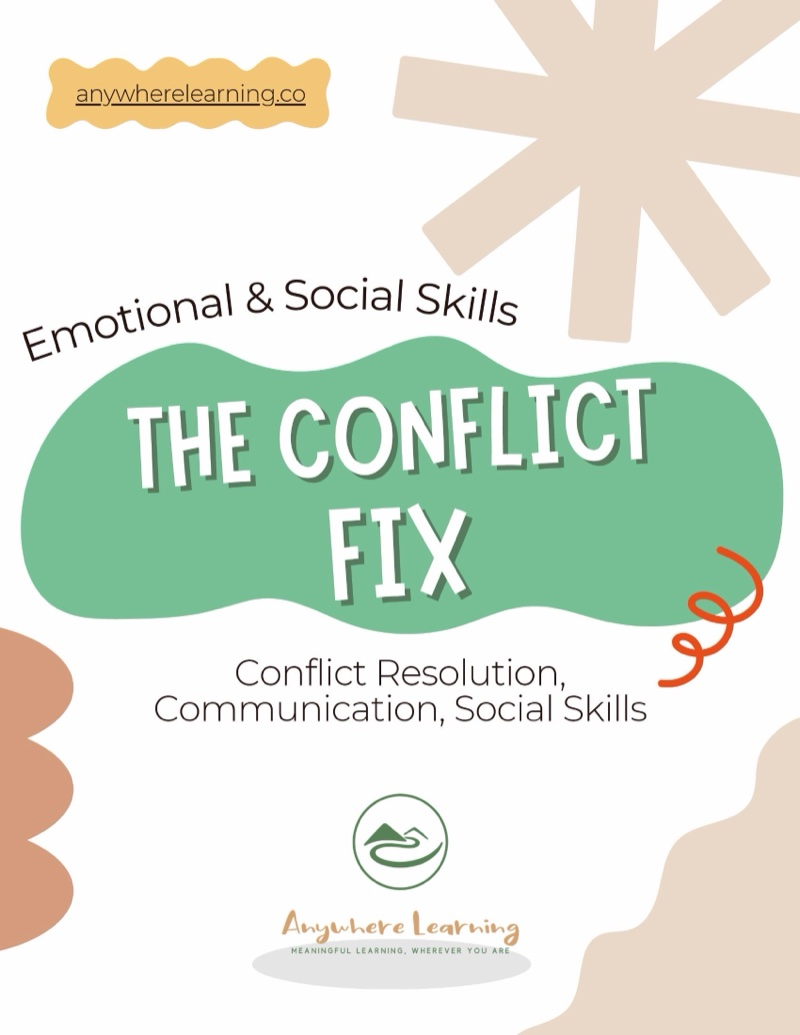
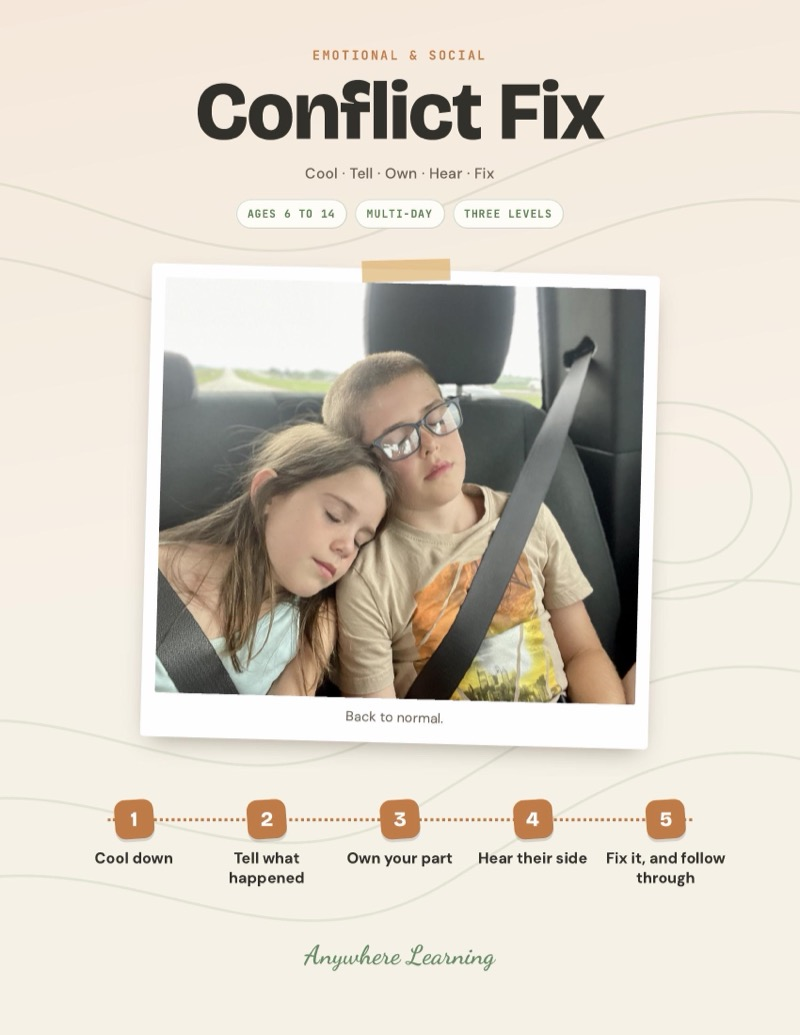
Conflict Fix: redesigned guide absorbing Repair Conversation, dishes fight story, car photo, multi-day; retire Repair Conversation with redirect

diff --git a/scripts/seed.ts b/scripts/seed.ts
@@ -141,10 +141,10 @@ async function seed() {
     { name: 'The Disappointment Lab', slug: 'disappointment-lab', description: 'Sit through a small planned letdown, name the feeling, and track how long it takes to bounce back.', shortDescription: 'Build resilience by tracking recovery time.', priceCents: 599, compareAtPriceCents: null, stripePriceId: 'price_1TdZpgAkIBECpwGmdBefEIXn', blobUrl: 'https://xkj3tzlgu6ylgllk.public.blob.vercel-storage.com/Emotional%20%26%20Social%20Skills%20-%20The%20Disappointment%20Lab.pdf', imageUrl: '/products/disappointment-lab.jpg', category: 'emotional-social-skills', isBundle: false, bundleProductIds: null, activityCount: null, ageRange: 'Ages 6–14', sortOrder: 223, active: false },
     { name: 'Comeback Journal', slug: 'comeback-journal', description: 'Your kid learns what to do after a letdown, like a lost game or a plan that fell through. They let it land, separate the facts from the story in their head, focus on their own game, set a personal goal for next time and keep a journal that shows how far they have come back.', shortDescription: 'Resilience activity for kids ages 6-14: bounce back from a letdown with facts, a focus on their own game and a personal goal for next time.', priceCents: 599, compareAtPriceCents: null, stripePriceId: 'price_1TdZphAkIBECpwGmkbMH03LR', blobUrl: 'https://xkj3tzlgu6ylgllk.public.blob.vercel-storage.com/Emotional%20%26%20Social%20Skills%20-%20The%20Comeback%20Journal.pdf', imageUrl: '/products/comeback-journal.jpg', category: 'emotional-social-skills', isBundle: false, bundleProductIds: null, activityCount: null, ageRange: 'Ages 6–14', sortOrder: 224, active: true },
     { name: 'Hard Thing Challenge', slug: 'hard-thing-challenge', description: 'Your kid picks one hard thing they cannot do yet and works at it for a whole stretch, like a month or a summer. They set a finish line and checkpoints, practise in small pieces, get through the messy middle where most people quit, and learn the difference between skipping one part and quitting the goal.', shortDescription: 'Perseverance activity for kids ages 6-14: pick one hard thing, set a finish line, get through the messy middle and finish what they started.', priceCents: 599, compareAtPriceCents: null, stripePriceId: 'price_1TdZphAkIBECpwGmehQbYZr2', blobUrl: 'https://xkj3tzlgu6ylgllk.public.blob.vercel-storage.com/Emotional%20%26%20Social%20Skills%20-%20The%20Hard%20Thing%20Challenge.pdf', imageUrl: '/products/hard-thing-challenge.jpg', category: 'emotional-social-skills', isBundle: false, bundleProductIds: null, activityCount: null, ageRange: 'Ages 6–14', sortOrder: 225, active: true },
-    { name: 'The Repair Conversation', slug: 'repair-conversation', description: 'Practise what to do after hurting someone: own it, skip excuses, ask what would help, follow through.', shortDescription: 'Own a mistake and repair the relationship.', priceCents: 599, compareAtPriceCents: null, stripePriceId: 'price_1TdZpiAkIBECpwGmg1Xu67b3', blobUrl: 'https://xkj3tzlgu6ylgllk.public.blob.vercel-storage.com/Emotional%20%26%20Social%20Skills%20-%20The%20Repair%20Conversation.pdf', imageUrl: '/products/repair-conversation.jpg', category: 'emotional-social-skills', isBundle: false, bundleProductIds: null, activityCount: null, ageRange: 'Ages 6–14', sortOrder: 226, active: true },
+    { name: 'The Repair Conversation', slug: 'repair-conversation', description: 'Practise what to do after hurting someone: own it, skip excuses, ask what would help, follow through.', shortDescription: 'Own a mistake and repair the relationship.', priceCents: 599, compareAtPriceCents: null, stripePriceId: 'price_1TdZpiAkIBECpwGmg1Xu67b3', blobUrl: 'https://xkj3tzlgu6ylgllk.public.blob.vercel-storage.com/Emotional%20%26%20Social%20Skills%20-%20The%20Repair%20Conversation.pdf', imageUrl: '/products/repair-conversation.jpg', category: 'emotional-social-skills', isBundle: false, bundleProductIds: null, activityCount: null, ageRange: 'Ages 6–14', sortOrder: 226, active: false },
     { name: 'The Kindness Missions', slug: 'kindness-missions', description: 'Build and work through a deck of real-world kindness challenges that take effort and noticing.', shortDescription: 'A deck of real-world kindness missions.', priceCents: 599, compareAtPriceCents: null, stripePriceId: 'price_1TdZpiAkIBECpwGmna3K79c3', blobUrl: 'https://xkj3tzlgu6ylgllk.public.blob.vercel-storage.com/Emotional%20%26%20Social%20Skills%20-%20The%20Kindness%20Missions.pdf', imageUrl: '/products/kindness-missions.jpg', category: 'emotional-social-skills', isBundle: false, bundleProductIds: null, activityCount: null, ageRange: 'Ages 6–14', sortOrder: 227, active: true },
     { name: 'Reading the Room', slug: 'reading-the-room', description: 'Practise noticing what others feel before words. Scan a room, read body language, infer the backstory.', shortDescription: 'Read body language and scan a room.', priceCents: 599, compareAtPriceCents: null, stripePriceId: 'price_1TdZpjAkIBECpwGmj3tD6ezs', blobUrl: 'https://xkj3tzlgu6ylgllk.public.blob.vercel-storage.com/Emotional%20%26%20Social%20Skills%20-%20Reading%20the%20Room.pdf', imageUrl: '/products/reading-the-room.jpg', category: 'emotional-social-skills', isBundle: false, bundleProductIds: null, activityCount: null, ageRange: 'Ages 9–14', sortOrder: 228, active: true },
-    { name: 'The Conflict Fix', slug: 'conflict-fix', description: 'A real script for fights with siblings or friends: cool down, say it without attacking, hear the other side, find the fix.', shortDescription: 'A real script for conflict resolution.', priceCents: 599, compareAtPriceCents: null, stripePriceId: 'price_1TdZpjAkIBECpwGmhgx7Rtab', blobUrl: 'https://xkj3tzlgu6ylgllk.public.blob.vercel-storage.com/Emotional%20%26%20Social%20Skills%20-%20The%20Conflict%20Fix.pdf', imageUrl: '/products/conflict-fix.jpg', category: 'emotional-social-skills', isBundle: false, bundleProductIds: null, activityCount: null, ageRange: 'Ages 6–14', sortOrder: 229, active: true },
+    { name: 'Conflict Fix', slug: 'conflict-fix', description: 'Your kids learn to fix a fight, not just end it. They cool down first, tell what happened without blame, own their own part, hear the other side and agree on a fix, so the same argument about whose turn it is does not come back tomorrow.', shortDescription: 'Conflict resolution for kids ages 6-14: cool down, tell it, own your part, hear their side and agree on a fix that stops the next fight.', priceCents: 599, compareAtPriceCents: null, stripePriceId: 'price_1TdZpjAkIBECpwGmhgx7Rtab', blobUrl: 'https://xkj3tzlgu6ylgllk.public.blob.vercel-storage.com/Emotional%20%26%20Social%20Skills%20-%20The%20Conflict%20Fix.pdf', imageUrl: '/products/conflict-fix.jpg', category: 'emotional-social-skills', isBundle: false, bundleProductIds: null, activityCount: null, ageRange: 'Ages 6–14', sortOrder: 229, active: true },
     { name: 'The Solo Mission', slug: 'solo-mission', description: 'Take on age-right do-it-without-me challenges: order at a counter, call a place, run an errand.', shortDescription: 'Solo missions in the real world.', priceCents: 599, compareAtPriceCents: null, stripePriceId: 'price_1TdZpkAkIBECpwGmxbgBC5hB', blobUrl: 'https://xkj3tzlgu6ylgllk.public.blob.vercel-storage.com/Emotional%20%26%20Social%20Skills%20-%20The%20Solo%20Mission.pdf', imageUrl: '/products/solo-mission.jpg', category: 'emotional-social-skills', isBundle: false, bundleProductIds: null, activityCount: null, ageRange: 'Ages 6–14', sortOrder: 230, active: true },
     { name: 'Worry Sorter', slug: 'worry-sorter', description: 'Your kid learns that most worries are two things stuck together: a part they cannot change and a part they can. They get their worries out, pin down the real one, sort theirs from the rest, plan their part, then check back afterwards to see what really happened.', shortDescription: 'Worry activity for kids ages 6-14: pin down the real worry, sort what they can change from what they cannot, plan their part and let the rest go.', priceCents: 599, compareAtPriceCents: null, stripePriceId: 'price_1TdZpkAkIBECpwGmGO1cFkPF', blobUrl: 'https://xkj3tzlgu6ylgllk.public.blob.vercel-storage.com/Emotional%20%26%20Social%20Skills%20-%20The%20Worry%20Sorter.pdf', imageUrl: '/products/worry-sorter.jpg', category: 'emotional-social-skills', isBundle: false, bundleProductIds: null, activityCount: null, ageRange: 'Ages 6–14', sortOrder: 231, active: true },
 

diff --git a/lib/product-descriptions.ts b/lib/product-descriptions.ts
@@ -2746,22 +2746,24 @@ export const productDescriptions: Record<string, ProductDescription> = {
   },
   'conflict-fix': {
     opening:
-      'Your child learns a real script for working through a fight with a sibling or friend: cool down, say it without attacking, hear the other side, find the fix. They run it on a real recent conflict and watch what shifts. Not a worksheet about feelings.',
+      'Your kids learn to fix a fight, not just end it. They cool down first, tell what happened without blame, own their own part, hear the other side and agree on a fix, so the same argument about whose turn it is does not come back tomorrow.',
     whatsIncluded: [
-      '4-step conflict script (cool down, speak, hear, fix)',
-      'Cool-down tools that actually work in the moment',
-      'Say-it-without-attacking sentence frames',
-      'Real recent conflict practice run',
-      'Version 2 revision after using it for real',
+      'Five steps, from cooling down to a fix you check a few days later',
+      'Cool down, Tell it, Own it and Hear it cards',
+      'A worked example: a sibling fight over whose turn it is for the dishes',
+      'Our fix page, for the repair and the plan for next time',
+      'Three levels per step, from ages 6 to 14',
     ],
-    skillTags: ['Conflict Resolution', 'Communication', 'Social Skills'],
+    skillTags: ['Conflict Resolution', 'Communication', 'Accountability', 'Active Listening', 'Problem-Solving'],
     insideTheLearning: {
       lead:
-        'Your child learns to repair a real conflict rather than wait it out. Step one is noticing they are too hot to talk yet. Then saying what they need without attacking, and hearing the other side without spending the whole time loading a comeback.',
+        'Space and a hug can end a fight, but the same fight often comes back the next day. Your kids learn to cool down first, own their own part without a but, repeat the other side until it is right, and agree on a fix for the real problem, like whose turn it is.',
       skills: [
-        { skill: 'Conflict Resolution', where: 'Cooling down first, then working the disagreement through to an actual fix' },
-        { skill: 'Communication', where: 'Saying what they feel and need without turning it into an attack' },
-        { skill: 'Social Skills', where: 'Listening to the other side properly instead of preparing their rebuttal' },
+        { skill: 'Conflict Resolution', where: 'Working through a real fight in five steps, from cool-down to fix' },
+        { skill: 'Communication', where: 'Telling what happened with facts, a feeling and what they wanted' },
+        { skill: 'Accountability', where: 'Naming their own part and saying sorry for it, with no but' },
+        { skill: 'Active Listening', where: 'Repeating the other side until they hear yes, that is it' },
+        { skill: 'Problem-Solving', where: 'Agreeing on a fix and checking it a few days later' },
       ],
     },
     format: 'Project Guide',

diff --git a/lib/fallback-products.ts b/lib/fallback-products.ts
@@ -2419,7 +2419,7 @@ export const fallbackProducts: FallbackProduct[] = [
     activityCount: null,
     ageRange: "Ages 6–14",
     sortOrder: 226,
-    active: true,
+    active: false,
     createdAt: new Date("2026-05-29"),
   },
   {
@@ -2470,18 +2470,18 @@ export const fallbackProducts: FallbackProduct[] = [
   },
   {
     id: "fb-conflict-fix",
-    name: "The Conflict Fix",
+    name: "Conflict Fix",
     slug: "conflict-fix",
     description:
-      "Your child learns a real script for working through a fight with a sibling or friend: cool down, say it without attacking, hear the other side, find the fix. They run it on a real recent conflict and watch what shifts. Not a worksheet about feelings.",
+      "Your kids learn to fix a fight, not just end it. They cool down first, tell what happened without blame, own their own part, hear the other side and agree on a fix, so the same argument about whose turn it is does not come back tomorrow.",
     shortDescription:
-      "Conflict resolution for kids ages 6-14: a real script for fights with siblings and friends. Cool down, speak it, fix it.",
+      "Conflict resolution for kids ages 6-14: cool down, tell it, own your part, hear their side and agree on a fix that stops the next fight.",
     priceCents: 599,
     compareAtPriceCents: null,
     stripePriceId: "price_1TdZpjAkIBECpwGmhgx7Rtab",
     blobUrl: "https://xkj3tzlgu6ylgllk.public.blob.vercel-storage.com/Emotional%20%26%20Social%20Skills%20-%20The%20Conflict%20Fix.pdf",
-    imageUrl: "/products/conflict-fix.jpg?v=2",
-    previewFile: "Preview Emotional & Social Skills - The Conflict Fix.pdf",
+    imageUrl: "/products/conflict-fix.jpg?v=3",
+    previewFile: "Preview Emotional & Social Skills - The Conflict Fix v3.pdf",
     category: "emotional-social-skills",
     isBundle: false,
     bundleProductIds: null,

diff --git a/lib/activity-blob-urls.ts b/lib/activity-blob-urls.ts
@@ -31,7 +31,7 @@ export const ACTIVITY_BLOB_URLS: Record<string, string> = {
   "community-service-business": "https://xkj3tzlgu6ylgllk.public.blob.vercel-storage.com/Entrepreneurship%20-%20Community%20Service%20Business%20v2.pdf",
   "community-tour-guide": "https://xkj3tzlgu6ylgllk.public.blob.vercel-storage.com/Communication%20%26%20Writing%20-%20Community%20Tour%20Guide%20v9.pdf",
   "complaint-to-product": "https://xkj3tzlgu6ylgllk.public.blob.vercel-storage.com/Entrepreneurship%20-%20Complaint%20to%20Product%20v7.pdf",
-  "conflict-fix": "https://xkj3tzlgu6ylgllk.public.blob.vercel-storage.com/Emotional%20%26%20Social%20Skills%20-%20The%20Conflict%20Fix%20v2.pdf",
+  "conflict-fix": "https://xkj3tzlgu6ylgllk.public.blob.vercel-storage.com/Emotional%20%26%20Social%20Skills%20-%20The%20Conflict%20Fix%20v3.pdf",
   "create-with-ai": "https://xkj3tzlgu6ylgllk.public.blob.vercel-storage.com/AI%20%26%20Digital%20Literacy%20-%20CREATE%20WITH%20AI%2C%20ETHICALLY%20v2.pdf",
   "creature-habitat": "https://xkj3tzlgu6ylgllk.public.blob.vercel-storage.com/Creativity%20%26%20Maker%20Create%20a%20Creature%20and%20Build%20Its%20Habitat%20v6.pdf",
   "cultural-celebration-journal": "https://xkj3tzlgu6ylgllk.public.blob.vercel-storage.com/Worldschooling%20-%20Cultural%20Celebration%20Journal%20v4.pdf",

diff --git a/scripts/create-stripe-products.ts b/scripts/create-stripe-products.ts
@@ -126,7 +126,7 @@ const catalog = [
   { slug: 'repair-conversation', name: 'The Repair Conversation', priceCents: 599, description: 'Own a mistake, skip excuses, ask what would help, follow through.' },
   { slug: 'kindness-missions', name: 'The Kindness Missions', priceCents: 599, description: 'A deck of real-world kindness challenges that take effort and noticing.' },
   { slug: 'reading-the-room', name: 'Reading the Room', priceCents: 599, description: 'Scan a room, read body language, infer the backstory.' },
-  { slug: 'conflict-fix', name: 'The Conflict Fix', priceCents: 599, description: 'A real script for working through fights with siblings or friends.' },
+  { slug: 'conflict-fix', name: 'Conflict Fix', priceCents: 599, description: 'Conflict resolution for kids ages 6-14: cool down, tell it, own your part, hear their side and agree on a fix that stops the next fight.' },
   { slug: 'solo-mission', name: 'The Solo Mission', priceCents: 599, description: 'Age-right do-it-without-me challenges that build real independence.' },
   { slug: 'worry-sorter', name: 'Worry Sorter', priceCents: 599, description: 'Worry activity for kids ages 6-14: pin down the real worry, sort what they can change from what they cannot, plan their part and let the rest go.' },
 ];

diff --git a/next.config.ts b/next.config.ts
@@ -119,6 +119,7 @@ const nextConfig: NextConfig = {
 
       // Retired Nov 2026: Emotional & Social pass.
       { source: "/shop/disappointment-lab", destination: "/shop/comeback-journal", permanent: true },
+      { source: "/shop/repair-conversation", destination: "/shop/conflict-fix", permanent: true },
 
       // Retired Nov 2026: Worldschooling pass.
       { source: "/shop/currency-market-math", destination: "/shop/farmers-market-challenge", permanent: true },

diff --git a/lib/home-showcase.ts b/lib/home-showcase.ts
@@ -292,13 +292,13 @@ export const SHOWCASE_ACTIVITIES: ShowcaseActivity[] = [
   },
   {
     slug: 'conflict-fix',
-    title: 'The Conflict Fix',
+    title: 'Conflict Fix',
     category: 'Emotional & Social Skills',
     color: '#b6748a',
     colorText: '#b6748a',
-    time: '1 hr',
+    time: 'Multi-day',
     photo: '/products/conflict-fix.jpg',
-    blurb: 'A real script for sibling fights.',
+    blurb: 'Fix the fight, not just end it.',
   },
 ];
 

diff --git a/lib/roadmap.ts b/lib/roadmap.ts
@@ -243,7 +243,7 @@ export const TERRITORIES: readonly Territory[] = [
     },
     activities: [
       'big-feelings-lab', 'worry-sorter', 'calm-down-toolkit', 'reading-the-room', 'conflict-fix',
-      'repair-conversation', 'kindness-missions', 'healthy-tech-boundaries',
+      'kindness-missions', 'healthy-tech-boundaries',
       'comeback-journal',
     ],
   },

diff --git a/lib/activity-effort.ts b/lib/activity-effort.ts
@@ -141,7 +141,7 @@ export const EFFORT_BY_SLUG: Record<string, Effort> = {
   'repair-conversation': 'Quick',
   'kindness-missions': 'Project',
   'reading-the-room': 'Half-Day',
-  'conflict-fix': 'Quick',
+  'conflict-fix': 'Project',
   'solo-mission': 'Project',
   'worry-sorter': 'Project',
 
